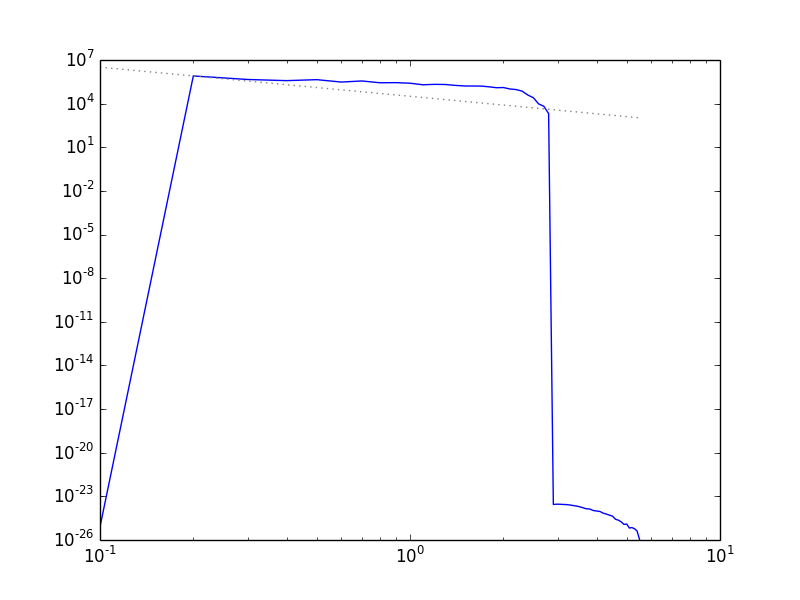
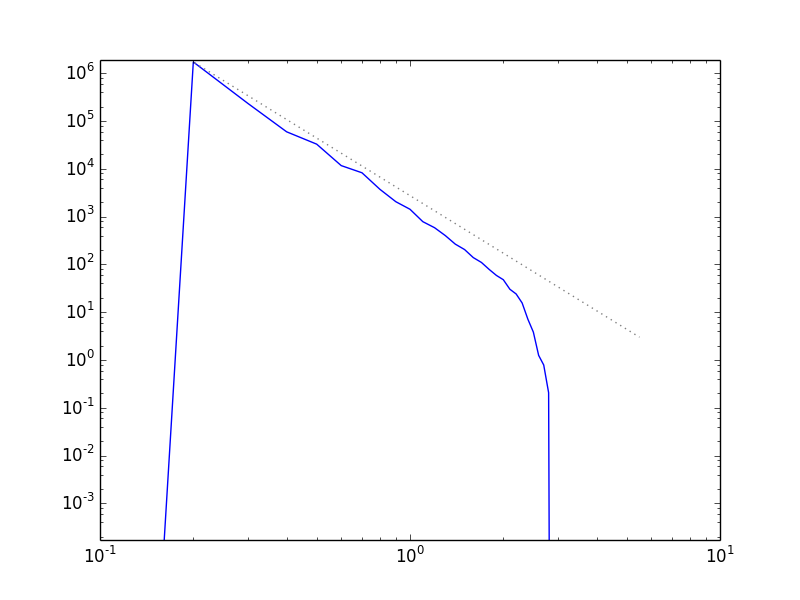
put back in the normalization -- this seems to match the analytic expectations

diff --git a/ps.py b/ps.py
@@ -8,7 +8,7 @@ from mpl_toolkits.axes_grid1 import AxesGrid
 # number of discrete points in real space to sample
 N = 64
 
-index = -2.0
+index = -4.0
 
 xmin = ymin = zmin = 0.0
 xmax = ymax = zmax = 10.0
@@ -200,7 +200,7 @@ E_spectrum = np.zeros(len(ncount)-1, dtype=np.float64)
 for n in range(len(ncount)):
     if not ncount[n] == 0: 
         #E_spectrum[n-1] = np.sum((np.abs(phi_hat)).flat[whichbin==n]) /ncount[n]
-        E_spectrum[n-1] = np.sum((np.abs(phi_hat)**2).flat[whichbin==n]) #/ncount[n]
+        E_spectrum[n-1] = np.sum((np.abs(phi_hat)**2).flat[whichbin==n]) /ncount[n]
 
 
 #---------------------------------------------------------------------------
@@ -215,7 +215,7 @@ k = k[0:len(E_spectrum)]
 print k.shape
 print E_spectrum.shape
 
-print k[0]
+print k[0], k[1], dk
 
 plt.loglog(k, E_spectrum)
 
@@ -224,6 +224,7 @@ kmax = k[ii]
 Emax = E_spectrum[ii]
 
 plt.loglog(k, Emax*(k/kmax)**index, ls=":", color="0.5")
+plt.ylim(1.e-10*Emax, 1.1*Emax)
 
 plt.savefig("ps.png")
 
